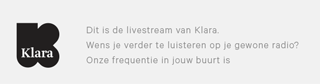
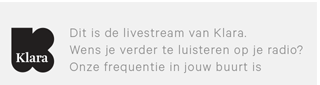
Updated view

diff --git a/Klara Overal/Classes/Views/LiveStreamView.m b/Klara Overal/Classes/Views/LiveStreamView.m
@@ -27,7 +27,8 @@
         self.backgroundColor = [UIColor whiteColor];
         
         UIImageView *frequencyInfo = [Util createImageFromPNG:@"frequencyInfo" InDirectory:@"img" DoYouWantImageView:YES];
-        self.lblFrequency = [[UILabel alloc] initWithFrame:CGRectMake(235, 52, 50, 18)];
+        
+        self.lblFrequency = [[UILabel alloc] initWithFrame:CGRectMake(257, 62, 50, 18)];
         self.lblFrequency.textColor = [UIColor colorWithWhite:100/255.0f alpha:1];
         self.lblFrequency.font = [UIFont fontWithName:@"Calibre-Semibold" size:13];
         [frequencyInfo addSubview:self.lblFrequency];
@@ -44,36 +45,31 @@
         }
         
         UIImageView *nuOpKlara = [Util createImageFromPNG:@"nuOpKlara" InDirectory:@"img" DoYouWantImageView:YES];
-        nuOpKlara.frame = CGRectMake(16, nuOpKlaraYpos, CGRectGetWidth(nuOpKlara.frame), CGRectGetHeight(nuOpKlara.frame));
+        CGRect maskFrame = nuOpKlara.frame;
+        maskFrame.origin.y = CGRectGetHeight(frequencyInfo.frame) + CGRectGetMinX(frequencyInfo.frame) + 15;
+        nuOpKlara.frame = maskFrame;
         [self addSubview:nuOpKlara];
         
-        self.lblTitle = [[UILabel alloc] initWithFrame:CGRectMake(50, nuOpKlaraYpos+117, 230, 35)];
+        self.lblTitle = [[UILabel alloc] initWithFrame:CGRectMake(50, CGRectGetMinY(nuOpKlara.frame) + 135, 220, 35)];
         self.lblTitle.textAlignment = NSTextAlignmentCenter;
         self.lblTitle.textColor = [UIColor blackColor];
-        self.lblTitle.font = [UIFont fontWithName:@"MetaSerifPro-Medi" size:23];
+        self.lblTitle.font = [UIFont fontWithName:@"MetaSerifPro-Medi" size:25];
         [self addSubview:self.lblTitle];
         
-        self.lblPresenter = [[UILabel alloc] initWithFrame:CGRectMake(50, nuOpKlaraYpos+176, 230, 20)];
+        self.lblPresenter = [[UILabel alloc] initWithFrame:CGRectMake(50, CGRectGetMinY(self.lblTitle.frame) + 45, 220, 20)];
         self.lblPresenter.textColor = [UIColor colorWithWhite:100/255.0f alpha:1];
         self.lblPresenter.textAlignment = NSTextAlignmentCenter;
+        self.lblPresenter.font = [UIFont fontWithName:@"Calibre-Light" size:14];
         [self addSubview:self.lblPresenter];
-        
-        self.lblDescription = [[UILabel alloc] initWithFrame:CGRectMake(70, nuOpKlaraYpos+184, 190, 50)];
-        self.lblDescription.textAlignment = NSTextAlignmentCenter;
-        self.lblDescription.numberOfLines = 2;
-        self.lblDescription.lineBreakMode = NSLineBreakByWordWrapping;
-        self.lblDescription.textColor = [UIColor colorWithWhite:100/255.0f alpha:1];
-        self.lblDescription.font = [UIFont fontWithName:@"Calibre-Light" size:11];
-        [self addSubview:self.lblDescription];
-        
-        self.btnPlay = [[UIButton alloc] initWithFrame:CGRectMake(60, btnYpos, 90, 90)];
+
+        self.btnPlay = [[UIButton alloc] initWithFrame:CGRectMake(60, CGRectGetMinY(maskFrame) + CGRectGetHeight(maskFrame) + 20, 90, 90)];
         self.btnPlay.backgroundColor = [UIColor clearColor];
         [self.btnPlay.layer setBorderColor:[[UIColor colorWithWhite:220/255.0f alpha:1] CGColor]];
         [self.btnPlay.layer setBorderWidth:1];
         [self.btnPlay setImage:[Util createImageFromPNG:@"play" InDirectory:@"img" DoYouWantImageView:NO] forState:UIControlStateNormal];
         [self addSubview:self.btnPlay];
         
-        self.btnPause = [[UIButton alloc] initWithFrame:CGRectMake(170, btnYpos, 90, 90)];
+        self.btnPause = [[UIButton alloc] initWithFrame:CGRectMake(170, CGRectGetMinY(maskFrame) + CGRectGetHeight(maskFrame) + 20, 90, 90)];
         self.btnPause.backgroundColor = [UIColor clearColor];
         [self.btnPause.layer setBorderColor:[[UIColor colorWithWhite:220/255.0f alpha:1] CGColor]];
         [self.btnPause.layer setBorderWidth:1];
@@ -85,17 +81,17 @@
 
 -(void)setLocalFrequency:(NSString *)localFrequency{
     _localFrequency = localFrequency;
-    self.lblFrequency.text = localFrequency;
+    self.lblFrequency.text = [localFrequency uppercaseString];
 }
 
 -(void)setProgramData:(ProgrammaModel *)programData{
     _programData = programData;
     
-    UIFont *lightFont = [UIFont fontWithName:@"Calibre-Light" size:11];
+    UIFont *lightFont = [UIFont fontWithName:@"Calibre-Light" size:16];
     NSDictionary *lightFontDict = [NSDictionary dictionaryWithObject: lightFont forKey:NSFontAttributeName];
     NSMutableAttributedString *lightAttrString = [[NSMutableAttributedString alloc] initWithString:@"Gepresenteerd door " attributes: lightFontDict];
     
-    UIFont *heavyFont = [UIFont fontWithName:@"Calibre-Semibold" size:11];
+    UIFont *heavyFont = [UIFont fontWithName:@"Calibre-Semibold" size:16];
     NSDictionary *heavyFontDict = [NSDictionary dictionaryWithObject:heavyFont forKey:NSFontAttributeName];
     NSMutableAttributedString *heavyFontAttrString = [[NSMutableAttributedString alloc]initWithString: programData.presenter attributes:heavyFontDict];
     [lightAttrString appendAttributedString:heavyFontAttrString];

diff --git a/Klara Overal/Classes/Views/QualityPicker.m b/Klara Overal/Classes/Views/QualityPicker.m
@@ -19,9 +19,9 @@
         self.btnMid = [[UIButton alloc] initWithFrame:CGRectMake(95, 0, 95, 34)];
         self.btnHigh = [[UIButton alloc] initWithFrame:CGRectMake(189, 0, 95, 34)];
 
-        [self.btnLow setTitle:@"LAAG" forState:UIControlStateNormal];
-        [self.btnMid setTitle:@"MEDIUM" forState:UIControlStateNormal];
-        [self.btnHigh setTitle:@"HOOG" forState:UIControlStateNormal];
+        [self.btnLow setTitle:@"L A A G" forState:UIControlStateNormal];
+        [self.btnMid setTitle:@"M E D I U M" forState:UIControlStateNormal];
+        [self.btnHigh setTitle:@"H O O G" forState:UIControlStateNormal];
                 
         [self.btnHigh.layer setBorderWidth:1];
         [self.btnHigh.layer setBorderColor:[[UIColor colorWithWhite:220/255.0f alpha:1] CGColor]];
@@ -37,8 +37,8 @@
         self.buttons = [[NSArray alloc] initWithObjects:self.btnLow,self.btnMid,self.btnHigh, nil];
         
         for (UIButton *btn in self.buttons) {
-            [btn setTitleEdgeInsets:UIEdgeInsetsMake(3, 0, 0, 0)];
-            btn.titleLabel.font = [UIFont fontWithName:@"Calibre-Light" size:11];
+            [btn setTitleEdgeInsets:UIEdgeInsetsMake(5, 0, 0, 0)];
+            btn.titleLabel.font = [UIFont fontWithName:@"Calibre-Light" size:14];
             btn.titleLabel.textColor = [UIColor blackColor];
             btn.backgroundColor = [UIColor clearColor];
             btn.userInteractionEnabled = NO;
@@ -54,10 +54,12 @@
             if (btn == sender) {
                 btn.titleLabel.textColor = [UIColor whiteColor];
                 btn.backgroundColor = [UIColor blackColor];
+                [btn.layer setBorderColor:[[UIColor blackColor] CGColor]];
                 btn.userInteractionEnabled = false;
             }else{
                 btn.titleLabel.textColor = [UIColor blackColor];
                 btn.backgroundColor = [UIColor clearColor];
+                [btn.layer setBorderColor:[[UIColor colorWithWhite:220/255.0f alpha:1] CGColor]];
                 btn.userInteractionEnabled = true;
             }
         }

diff --git a/Klara Overal/Classes/Controllers/LivestreamViewController.m b/Klara Overal/Classes/Controllers/LivestreamViewController.m
@@ -44,7 +44,7 @@
     
     CGRect qualityPickerFrame;
     if ([self hasFourInchDisplay]) {
-        qualityPickerFrame = CGRectMake(17, 467, 285, 34);
+        qualityPickerFrame = CGRectMake(17, 4, 285, 34);
     }else{
         qualityPickerFrame = CGRectMake(17, 440, 285, 34);
     }
@@ -62,14 +62,13 @@
     NSString *path = [[NSBundle mainBundle] pathForResource:@"frequencies" ofType:@"plist"];
     self.frequencies = [NSArray arrayWithContentsOfFile:path];
     
-    NSLog(@"curretn location: %f",currentLocation.coordinate.latitude);
     for (NSDictionary *antenna in self.frequencies) {
         double d = [Util CalculateDistanceBetween2PointsWithP1Lat:currentLocation.coordinate.latitude P1Lon:currentLocation.coordinate.longitude P2Lat:[[antenna objectForKey:@"latitude"] doubleValue] P2Lon:[[antenna objectForKey:@"longitude"] doubleValue]];
         
-        NSLog(@"the distance to %@ is %f",[antenna objectForKey:@"location"],d);
         if (smallestDistance == 0 || d < smallestDistance) {
             smallestDistance = d;
             self.view.localFrequency = [antenna objectForKey:@"frequency"];
+            break;
             NSLog(@"%@",[antenna objectForKey:@"frequency"]);
         }
     }
